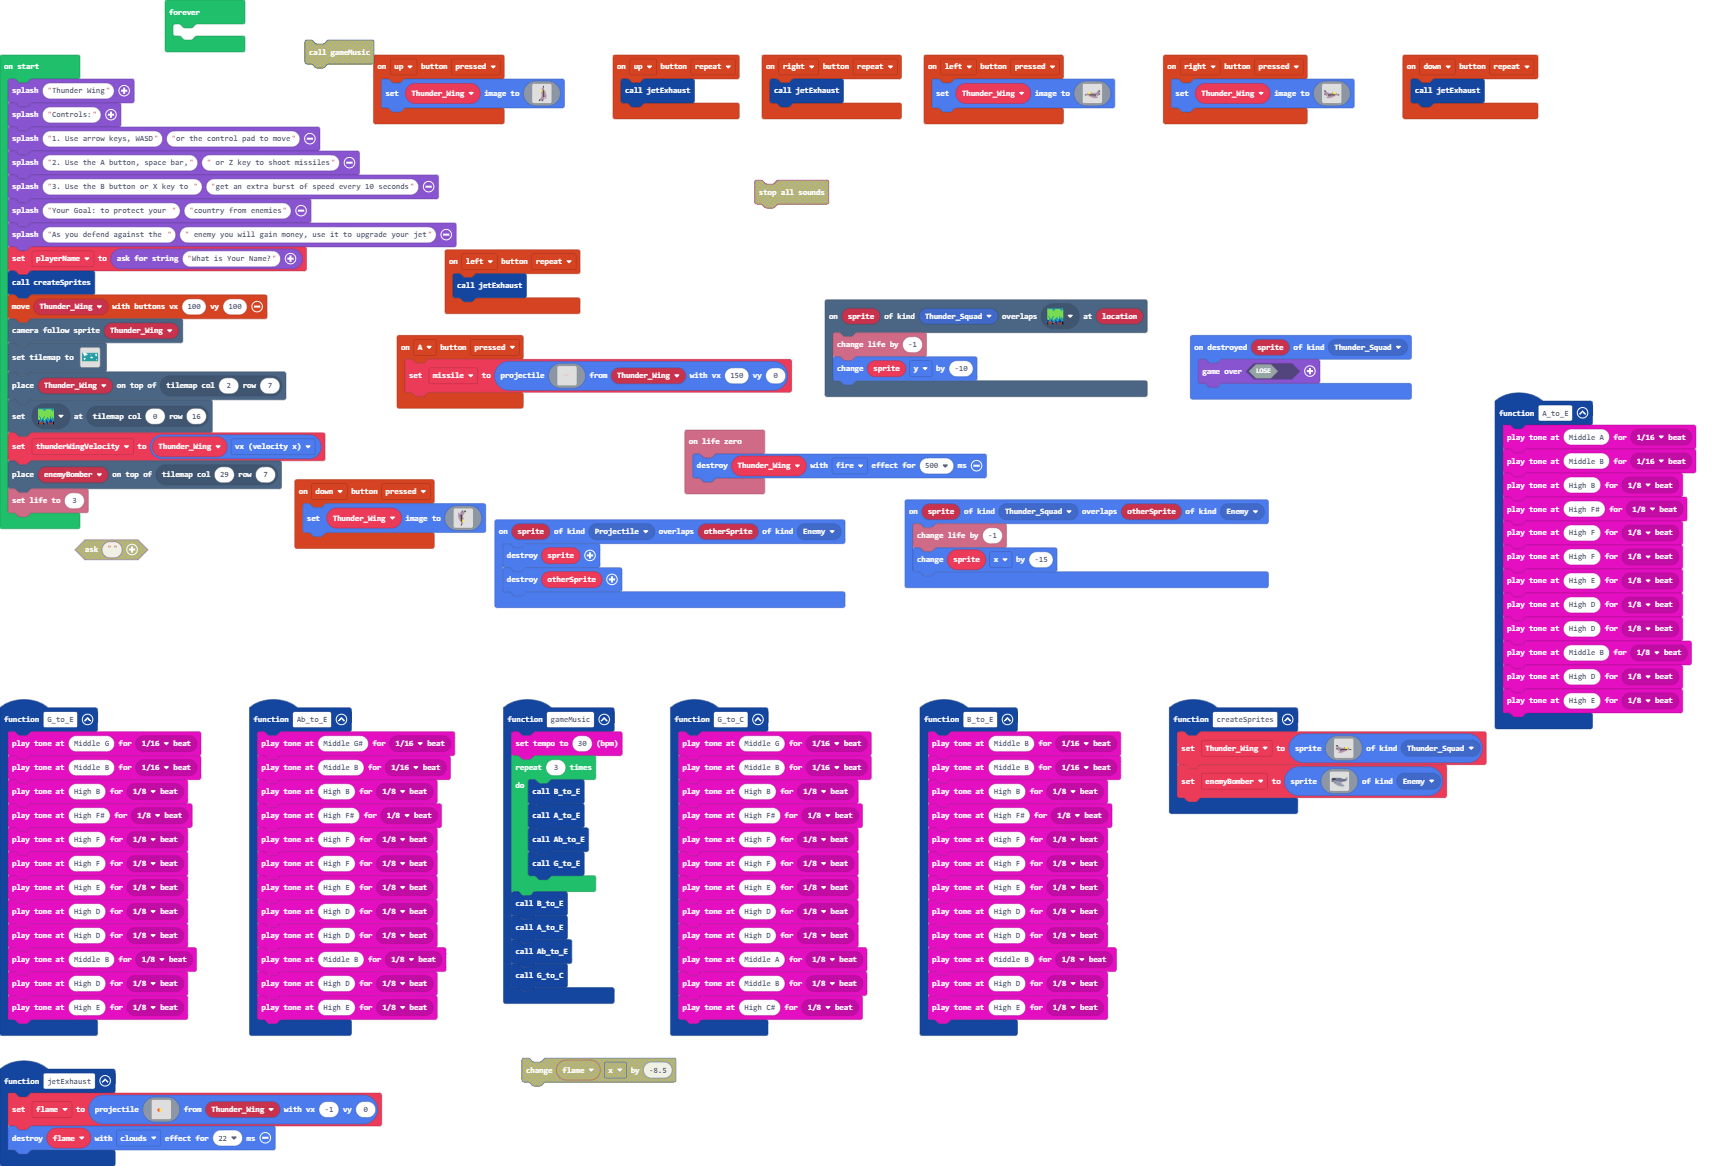
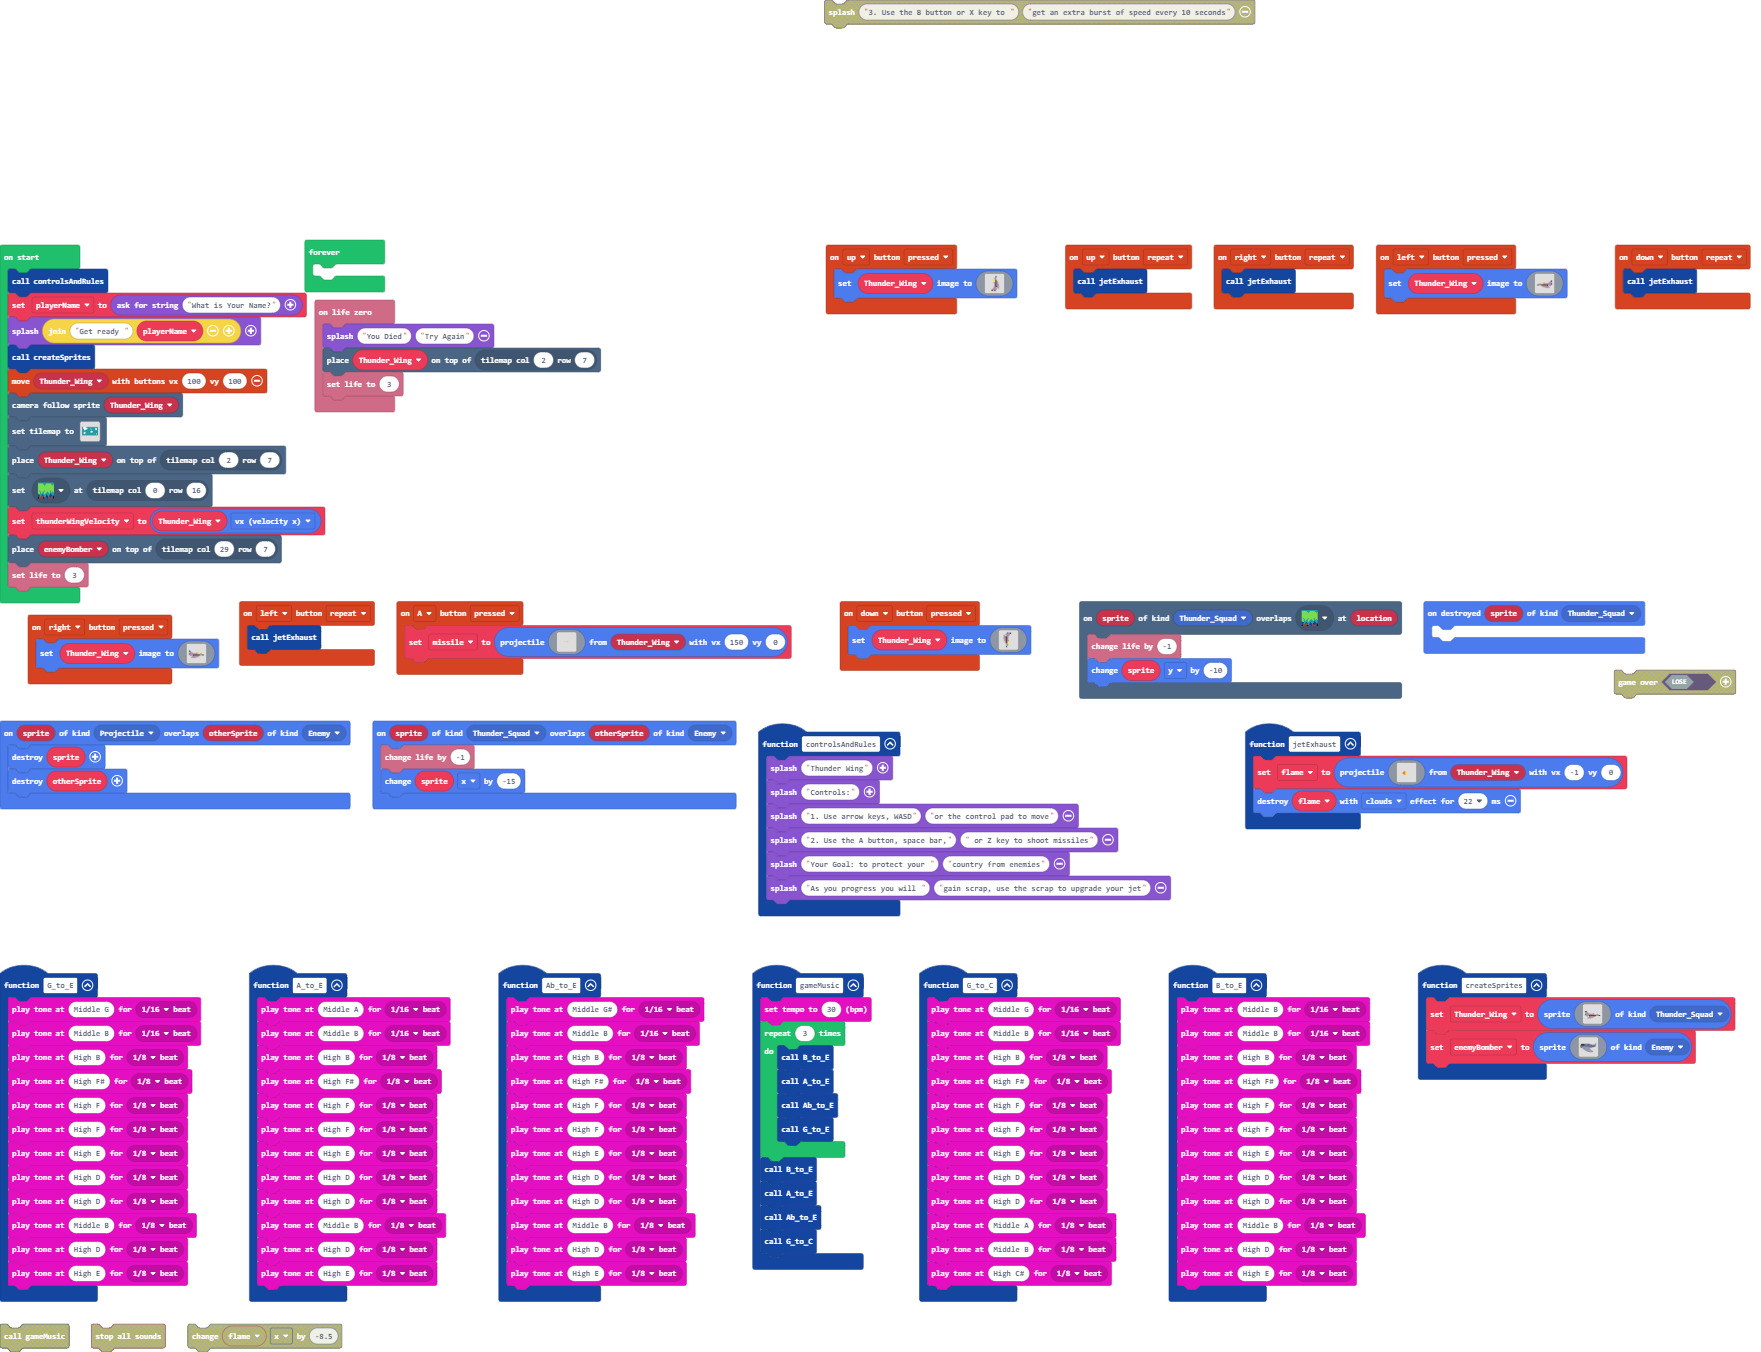
Update pxt.json, main.blocks, main.ts, tilemap.g.jres, tilemap.g.ts

diff --git a/main.ts b/main.ts
@@ -29,6 +29,14 @@ controller.up.onEvent(ControllerButtonEvent.Pressed, function () {
         ................
         `)
 })
+function controlsAndRules () {
+    game.splash("Thunder Wing")
+    game.splash("Controls:")
+    game.splash("1. Use arrow keys, WASD", "or the control pad to move")
+    game.splash("2. Use the A button, space bar,", " or Z key to shoot missiles")
+    game.splash("Your Goal: to protect your ", "country from enemies")
+    game.splash("As you progress you will ", "gain scrap, use the scrap to upgrade your jet")
+}
 controller.up.onEvent(ControllerButtonEvent.Repeated, function () {
     jetExhaust()
 })
@@ -248,7 +256,7 @@ function createSprites () {
         `, SpriteKind.Enemy)
 }
 sprites.onDestroyed(SpriteKind.Thunder_Squad, function (sprite) {
-    game.over(false)
+	
 })
 controller.down.onEvent(ControllerButtonEvent.Repeated, function () {
     jetExhaust()
@@ -282,7 +290,9 @@ controller.down.onEvent(ControllerButtonEvent.Pressed, function () {
         `)
 })
 info.onLifeZero(function () {
-    Thunder_Wing.destroy(effects.fire, 500)
+    game.splash("You Died", "Try Again")
+    tiles.placeOnTile(Thunder_Wing, tiles.getTileLocation(2, 7))
+    info.setLife(3)
 })
 function B_to_E () {
     music.playTone(494, music.beat(BeatFraction.Sixteenth))
@@ -309,14 +319,9 @@ let flame: Sprite = null
 let missile: Sprite = null
 let enemyBomber: Sprite = null
 let Thunder_Wing: Sprite = null
-game.splash("Thunder Wing")
-game.splash("Controls:")
-game.splash("1. Use arrow keys, WASD", "or the control pad to move")
-game.splash("2. Use the A button, space bar,", " or Z key to shoot missiles")
-game.splash("3. Use the B button or X key to ", "get an extra burst of speed every 10 seconds")
-game.splash("Your Goal: to protect your ", "country from enemies")
-game.splash("As you defend against the ", " enemy you will gain money, use it to upgrade your jet")
+controlsAndRules()
 let playerName = game.askForString("What is Your Name?")
+game.splash("Get ready " + playerName)
 createSprites()
 controller.moveSprite(Thunder_Wing, 100, 100)
 scene.cameraFollowSprite(Thunder_Wing)

diff --git a/tilemap.g.ts b/tilemap.g.ts
@@ -57,6 +57,25 @@ namespace myTiles {
 ................................
 ................................
 `, [myTiles.transparency16,myTiles.tile1,myTiles.tile6,sprites.builtin.forestTiles2], TileScale.Sixteen);
+            case "level2":
+            case "level2":return tiles.createTilemap(hex`1000100000000000000000000000000000000000000000000000000000000000000000000000000000000000000000000000000000000000000000000000000000000000000000000000000000000000000000000000000000000000000000000000000000000000000000000000000000000000000000000000000000000000000000000000000000000000000000000000000000000000000000000000000000000000000000000000000000000000000000000000000000000000000000000000000000000000000000000000000000000000000000000000000000000000000000000000000000000000000000000000000000000000000000000000000000000000`, img`
+. . . . . . . . . . . . . . . . 
+. . . . . . . . . . . . . . . . 
+. . . . . . . . . . . . . . . . 
+. . . . . . . . . . . . . . . . 
+. . . . . . . . . . . . . . . . 
+. . . . . . . . . . . . . . . . 
+. . . . . . . . . . . . . . . . 
+. . . . . . . . . . . . . . . . 
+. . . . . . . . . . . . . . . . 
+. . . . . . . . . . . . . . . . 
+. . . . . . . . . . . . . . . . 
+. . . . . . . . . . . . . . . . 
+. . . . . . . . . . . . . . . . 
+. . . . . . . . . . . . . . . . 
+. . . . . . . . . . . . . . . . 
+. . . . . . . . . . . . . . . . 
+`, [myTiles.transparency16], TileScale.Sixteen);
         }
         return null;
     })
